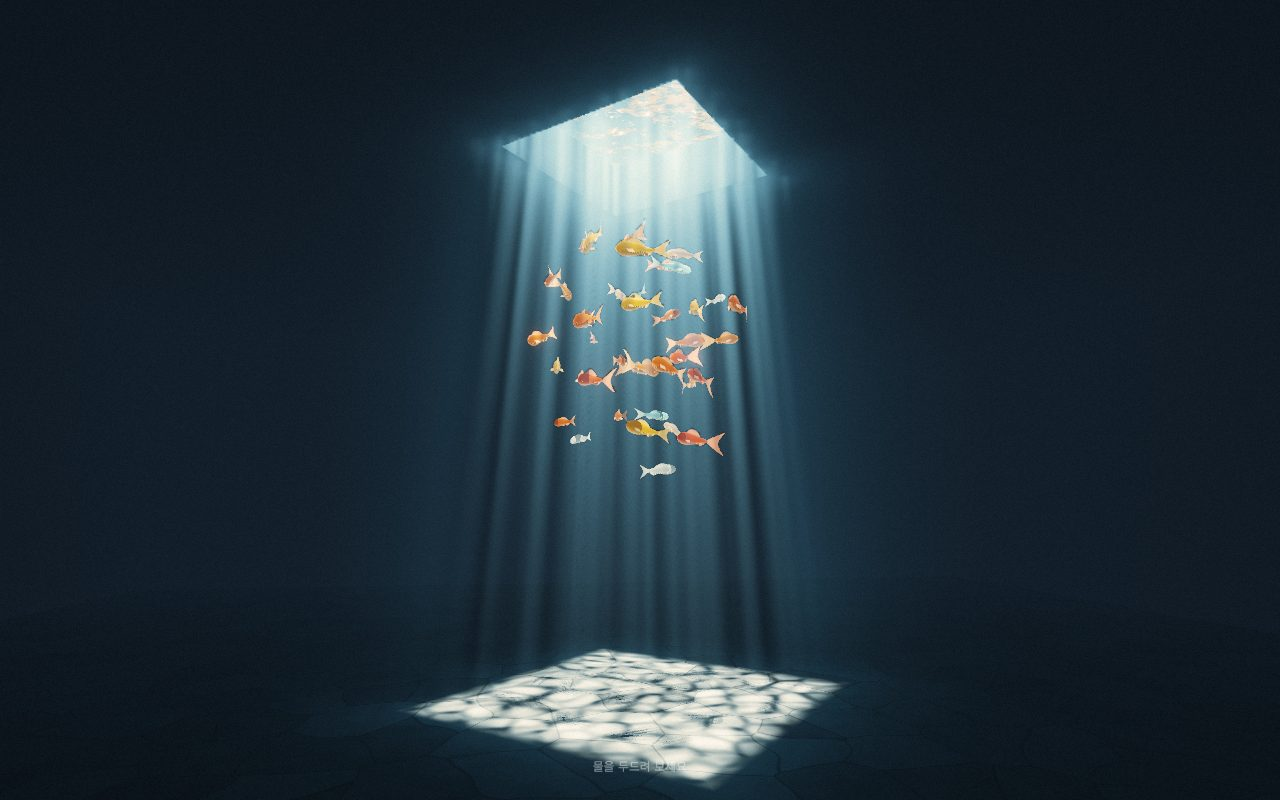
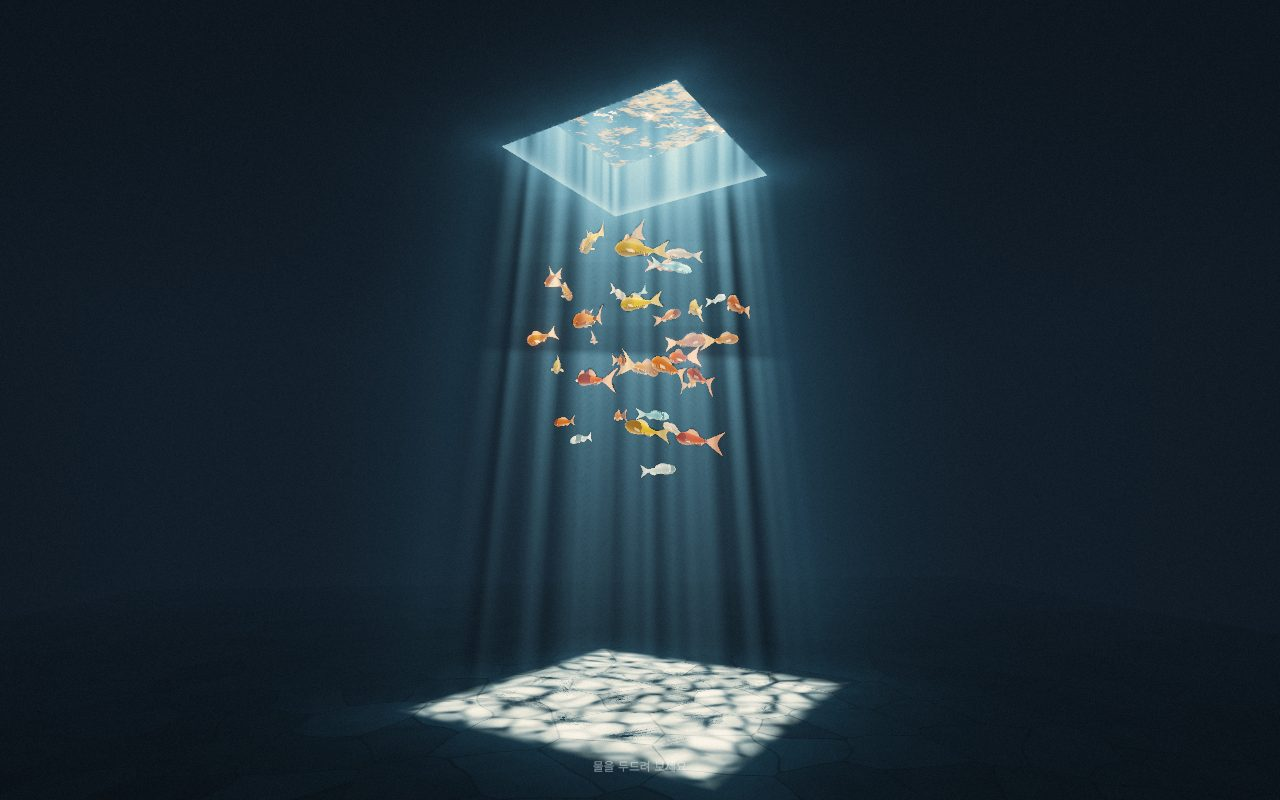
Update 빛우물 to v0.3.1

Changed region(s): [[0.375, 0.0938, 0.625, 0.5], [0.5, 0.5312, 0.5312, 0.5625], [0.4688, 0.5, 0.5, 0.5312]]

diff --git a/MAP.md b/MAP.md
@@ -268,7 +268,7 @@ npm version patch   # minor / major 도 됨
 
 | 작업물 | 저장소 | 배포 방식 | 카드 표시 |
 |---|---|---|---|
-| 빛우물 | tomlim2/light-well | `v*` 태그 → Actions | `v0.3.0` |
+| 빛우물 | tomlim2/light-well | `v*` 태그 → Actions | `v0.3.1` |
 | 오늘의 디스크 | tomlim2/cd-case | `v*` 태그 → Actions | `v0.2.0` |
 | Visual studies | tomlim2/llm-design-reference | `v*` 태그 → Actions | `v1.0.0` |
 | Earth — Pop-up Poster | tomlim2/pop-up-earth | `v*` 태그 → Actions | `v0.1.5` |
